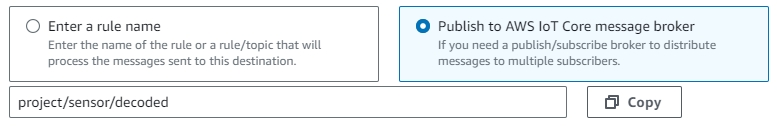
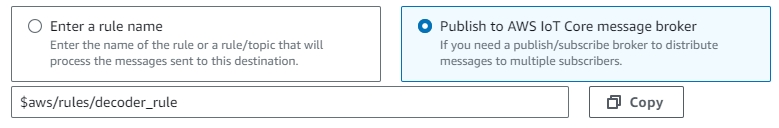
修改目的地设置方式

diff --git a/illustrate_zh.md b/illustrate_zh.md
@@ -2,17 +2,6 @@
 
 **本指南中需要把地址中的 `us-east-1` 替换为你的区域，如 `cn-northwest-1`**
 
-## 目的地
-
-1. 打开 [目的地](https://us-east-1.console.aws.amazon.com/iot/home?region=us-east-1#/wireless/destinations)
-   `https://us-east-1.console.aws.amazon.com/iot/home?region=us-east-1#/wireless/destinations`
-2. 选择 `添加目标`
-3. 选择 `发布到 AWS IoT Core 消息代理` ，并填写 `Topic` ，例：`project/sensor/decoded`
-
-   ![目的地设置](./images/目的地设置.png)
-
-4. 选择 `添加目标` 完成目的地的创建
-
 ## 生成外部可连接的 MQTT Topic 设置
 
 1. 打开 [策略](https://us-east-1.console.aws.amazon.com/iot/home?region=us-east-1#/policyhub)
@@ -133,7 +122,7 @@ An optional company name []:
 2. 在 `选择一个源` 中，选择 `AWS IoT`
 3. 选择 `Custom IoT rule`
 4. 在 `Rule` 中，选择 `Create a new rule`
-5. 在 `Rule name` 中填写规则名称，例：`decoder_js_rule`
+5. 在 `Rule name` 中填写规则名称，例：`decoder_rule`
 6. 在 `Rule query statement` 中填写`SQL语句`，例：
 
 ```sql
@@ -141,3 +130,14 @@ SELECT * FROM 'project/sensor/decoded'
 ```
 
 7. 点击 `添加` 完成触发器的创建
+
+## 目的地
+
+1. 打开 [目的地](https://us-east-1.console.aws.amazon.com/iot/home?region=us-east-1#/wireless/destinations)
+   `https://us-east-1.console.aws.amazon.com/iot/home?region=us-east-1#/wireless/destinations`
+2. 选择 `添加目标`
+3. 选择 `发布到 AWS IoT Core 消息代理` ，并填写 `Topic` ，`$aws/rules/<RULES_NAME>`，把`<RULES_NAME>`替换为之前创建的规则名称，例：`$aws/rules/decoder_rule`
+
+   ![目的地设置](./images/目的地设置.png)
+
+4. 选择 `添加目标` 完成目的地的创建
